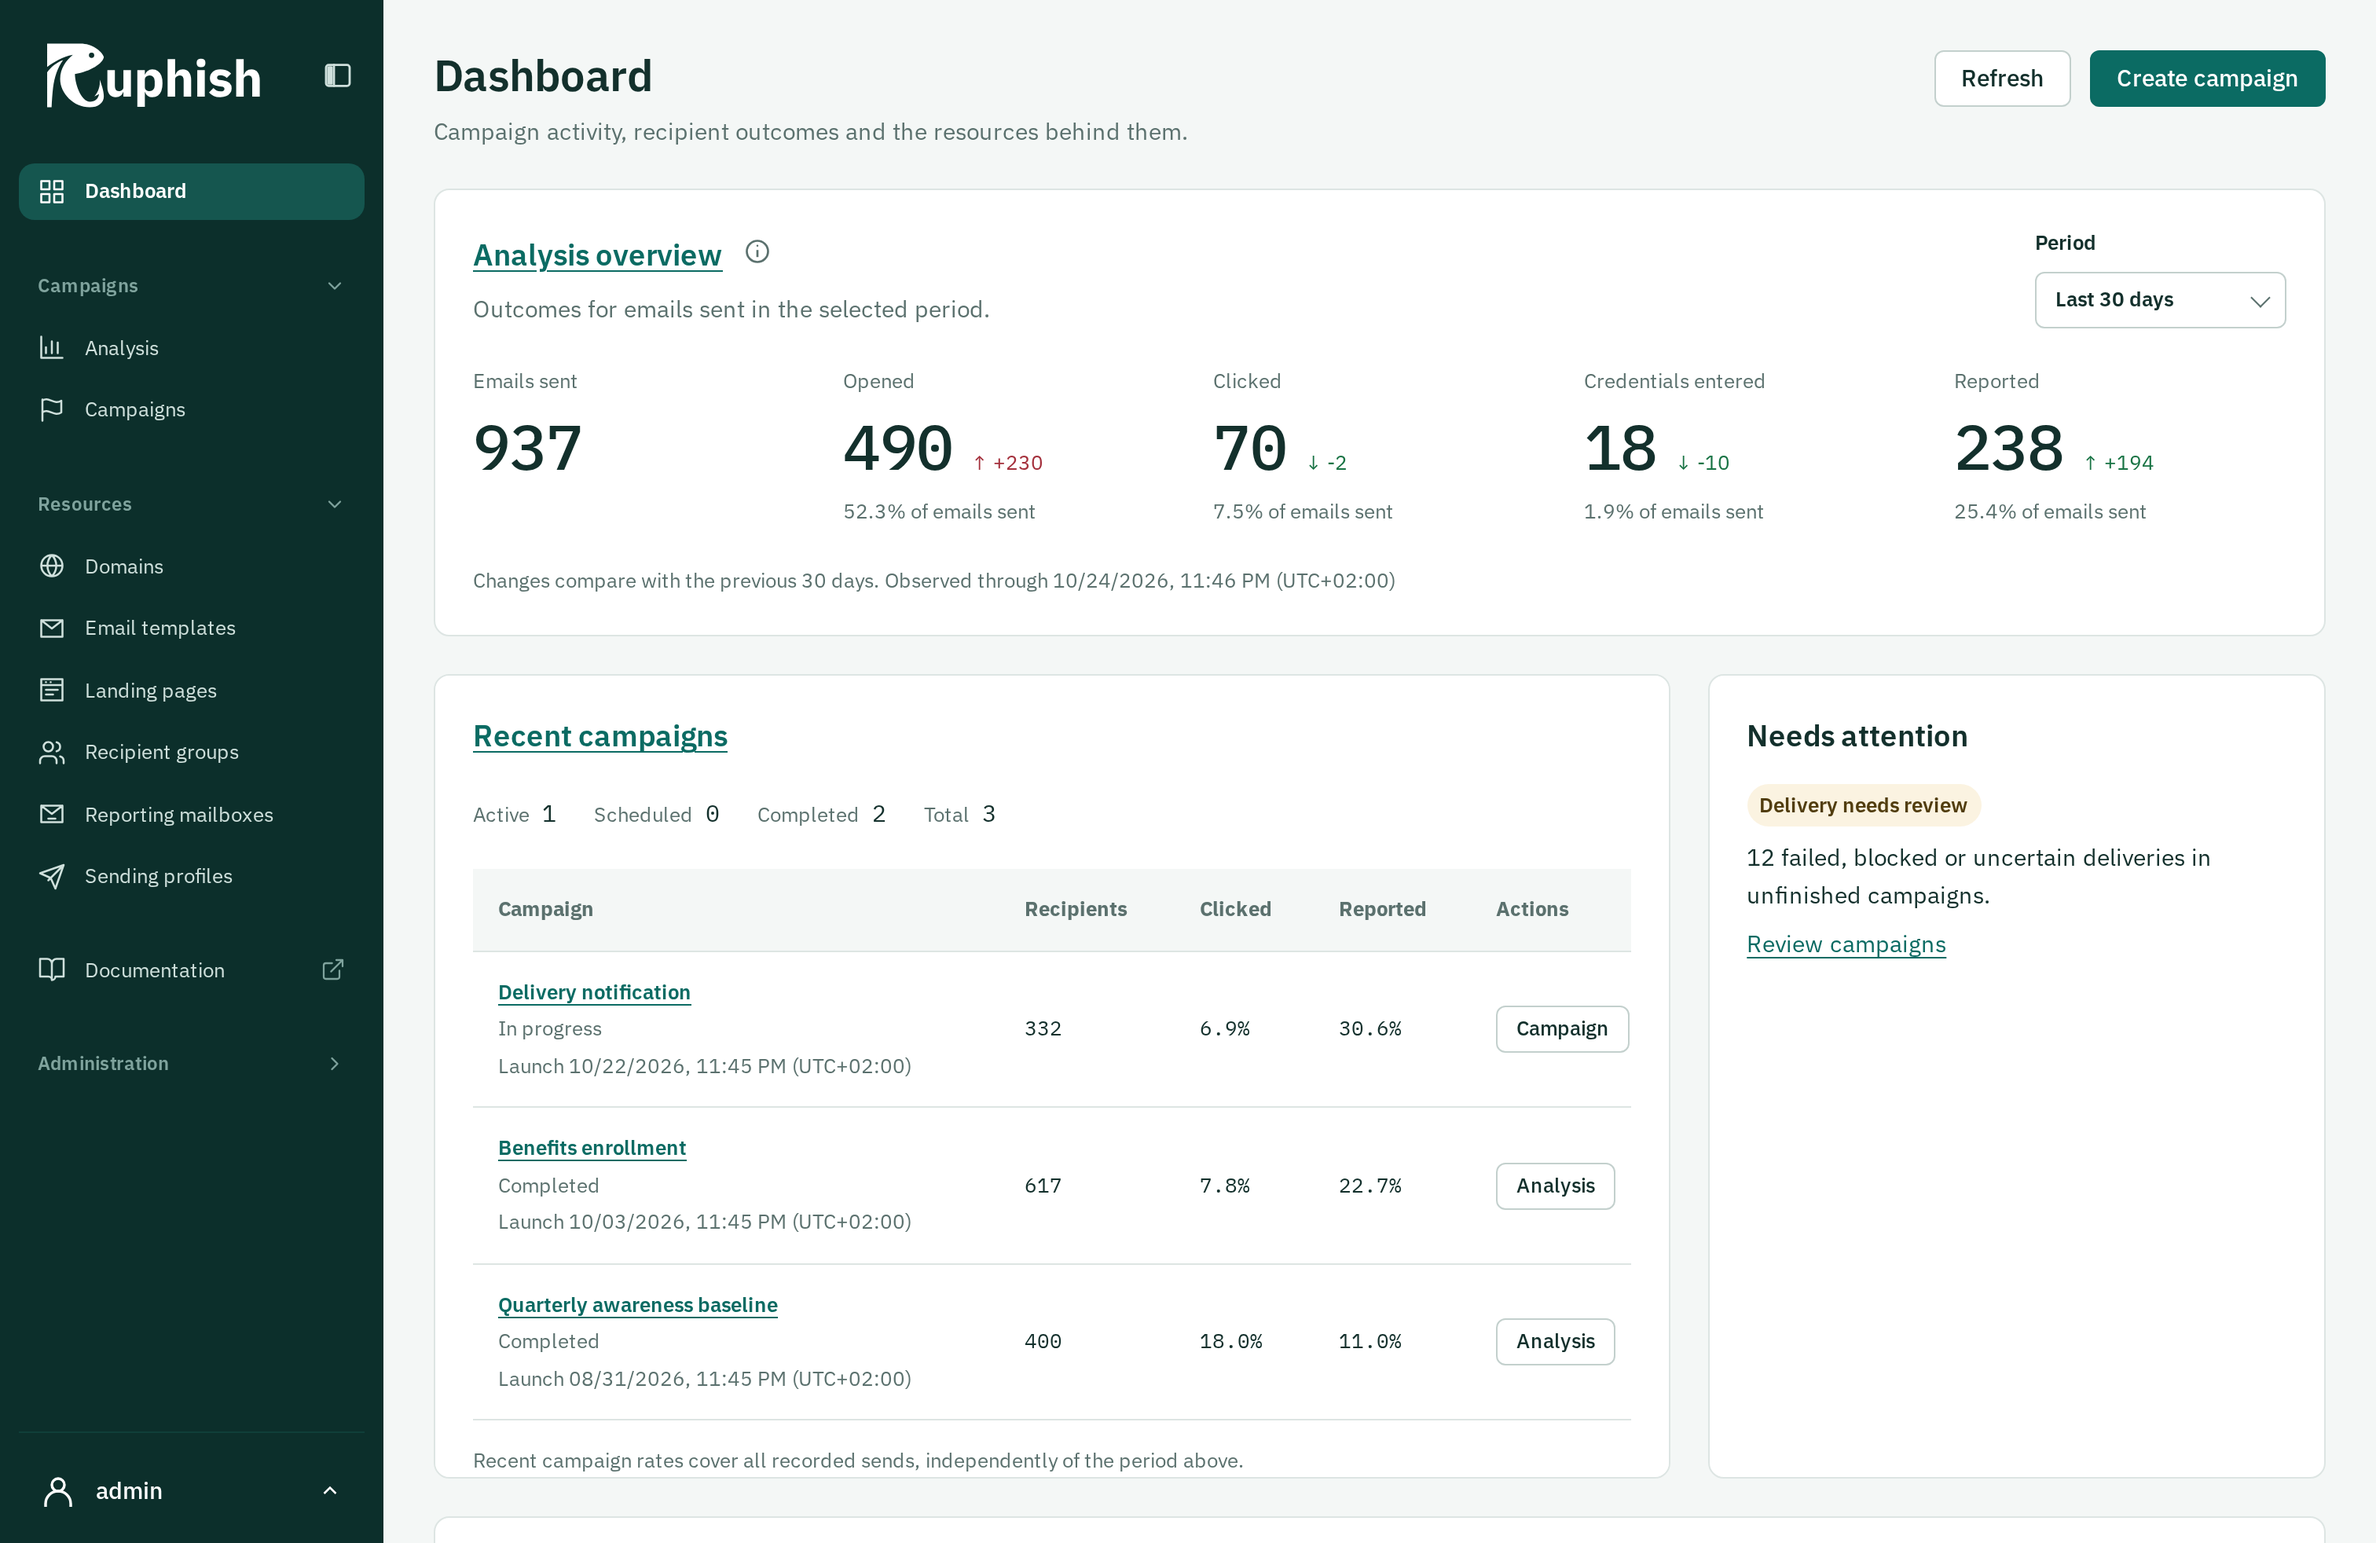
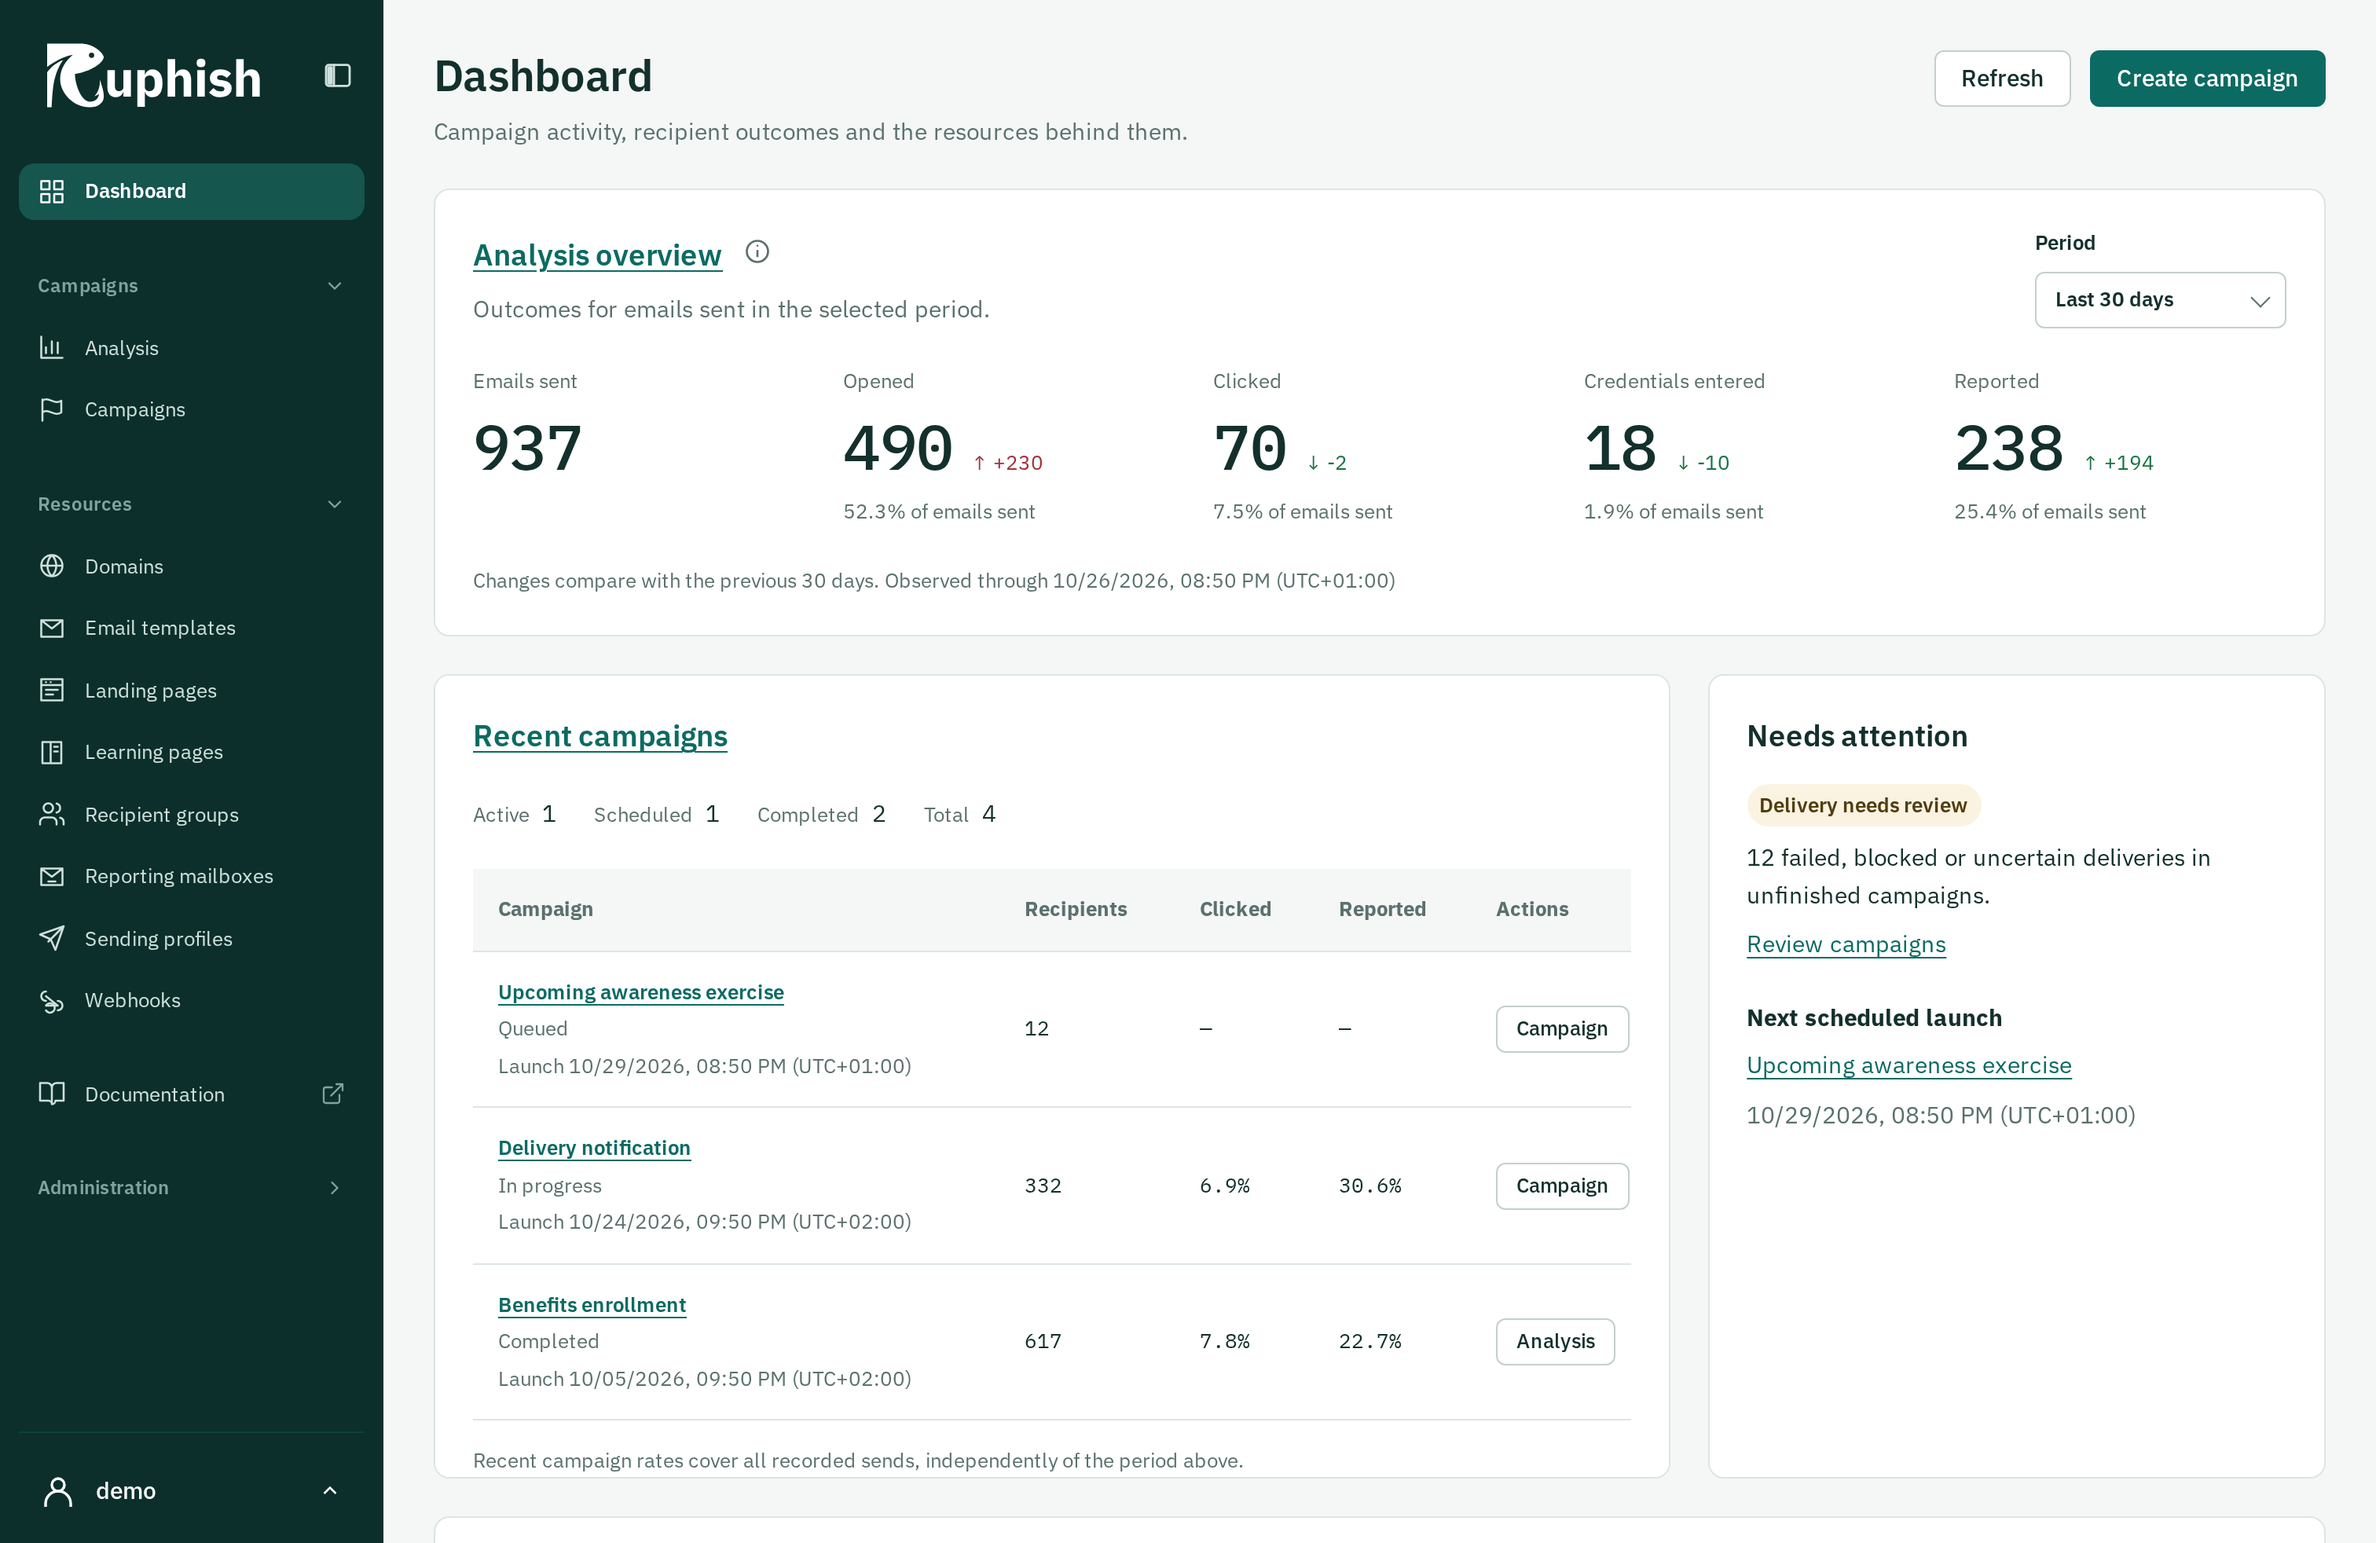
feat(demo): expose the public demo and align recorder features
- Add demo links to the README, website navigation, landing page, and footers.
- Add a mobile navigation toggle, shared external-link icon, and outlined demo buttons.
- Share installation feature flags between the browser demo and recorder seed.
- Include the embedded configuration in Docker builds and avoid recorder WASM compression delays.
- Refresh dashboard images and document their capture date.

diff --git a/website/src/styles/site.css b/website/src/styles/site.css
@@ -14,24 +14,32 @@ p { font-size: 1.0625rem; line-height: 1.7; }
 .shell { width: min(1320px, calc(100% - 64px)); margin-inline: auto; }
 .skip-link { position: absolute; top: -6rem; left: 1rem; padding: 1rem; background: white; z-index: 5; }
 .skip-link:focus { top: 1rem; }
-.site-header { background: var(--deep); color: #fff; border-bottom: 1px solid #28534c; }
+.site-header { position: relative; background: var(--deep); color: #fff; border-bottom: 1px solid #28534c; }
 .header-inner { min-height: 88px; display: flex; align-items: center; justify-content: space-between; gap: 24px; }
 .brand { display: block; flex-shrink: 0; }
 .site-header nav { display: flex; align-items: center; gap: 32px; }
 .site-header nav a { font-size: 0.9375rem; font-weight: 500; color: #eef4f2; text-decoration: none; }
-.site-header a:focus-visible { outline-color: #5cc8bb; }
+.site-header :is(a, button):focus-visible { outline: 2px solid #5cc8bb; outline-offset: 5px; border-radius: 3px; }
 .site-header nav a:is(:hover, [aria-current]) { text-decoration: underline; }
-.source-link { display: inline-flex; align-items: center; gap: 4px; }
-.source-link svg { width: 18px; height: 18px; fill: none; stroke: currentColor; stroke-width: 1.5; }
+.nav-toggle { display: inline-flex; align-items: center; justify-content: center; gap: 10px; min-height: 44px; padding: 8px 12px; border: 1px solid #52746d; border-radius: 6px; color: #eef4f2; background: transparent; font: inherit; cursor: pointer; }
+.nav-toggle:hover { background: #244b43; }
+.nav-toggle svg { width: 22px; height: 22px; fill: none; stroke: currentColor; stroke-width: 1.5; }
+.nav-toggle .close-icon, .nav-toggle[aria-expanded="true"] .menu-icon { display: none; }
+.nav-toggle[aria-expanded="true"] .close-icon { display: block; }
+.site-header [hidden] { display: none; }
+.external-link { display: inline-flex; align-items: center; gap: 4px; }
 .hero { padding-top: clamp(48px, 6vw, 88px); text-align: center; }
 .hero h1 { margin-bottom: 24px; }
 .hero-intro { max-width: 590px; margin: 0 auto 28px; color: var(--muted); font-size: 1.1875rem; }
 .actions { display: flex; justify-content: center; flex-wrap: wrap; gap: 12px; }
+.demo-action { margin-top: 12px; }
 .button { display: inline-flex; align-items: center; justify-content: center; min-height: 48px; padding: 10px 22px; border: 1px solid transparent; border-radius: 6px; font-size: 1rem; font-weight: 500; text-decoration: none; }
 .primary { color: white; background: var(--teal); }
 .primary:hover { background: #0a534d; }
 .secondary { color: var(--ink); border-color: #c3d0cd; background: var(--paper); }
 .secondary:hover { background: #eef4f2; }
+.tertiary { color: var(--teal); border-color: var(--teal); background: var(--paper); }
+.tertiary:hover { background: #e9f5f3; }
 .dashboard-showcase { margin: 48px 0 0; }
 .dashboard-showcase > a { display: block; border: 1px solid #b7ccc6; border-radius: 10px; overflow: hidden; box-shadow: 0 18px 55px -32px #0c2f2b66; }
 .dashboard-showcase img { width: 100%; }
@@ -50,7 +58,7 @@ figcaption { font-size: 0.8125rem; color: var(--muted); padding-top: 16px; }
 .text-link { font-weight: 500; }
 .start-section { padding-block: 80px; display: flex; align-items: flex-start; justify-content: space-between; gap: 32px; }
 .start-section h2 { font-size: 2rem; margin-bottom: 12px; }
-.start-section p { margin-bottom: 0; color: var(--muted); }
+.start-section p { max-width: 640px; margin-bottom: 0; color: var(--muted); }
 .start-section .button { flex-shrink: 0; }
 .about { max-width: 730px; padding-block: 80px 96px; }
 .about-heading h1 { font-size: clamp(2.5rem, 5vw, 4.5rem); }
@@ -70,13 +78,17 @@ figcaption { font-size: 0.8125rem; color: var(--muted); padding-top: 16px; }
   .start-section { padding-block: 56px; gap: 24px; }
   .about { padding-top: 48px; }
 }
+@media (max-width: 700px) {
+  .header-inner { flex-wrap: wrap; }
+  .site-header nav { width: 100%; flex-direction: column; align-items: stretch; gap: 0; padding-bottom: 16px; }
+  .site-header nav a { display: flex; align-items: center; min-height: 48px; padding: 12px 0; }
+  .site-header[data-navigation] nav { position: absolute; top: 100%; left: 0; z-index: 10; padding: 8px 20px 16px; background: var(--deep); border-bottom: 1px solid #52746d; box-shadow: 0 12px 20px -12px #0c2f2b66; }
+}
 @media (max-width: 480px) {
   .shell { width: calc(100% - 32px); }
   .header-inner { min-height: 76px; gap: 12px; }
   .brand img { width: 110px; }
-  .site-header nav { gap: 16px; }
-  .site-header nav a { font-size: 0.875rem; }
-  .source-link svg { display: none; }
+  .site-header[data-navigation] nav { padding-inline: 16px; }
   .hero-intro { font-size: 1.0625rem; }
   .dashboard-showcase { margin-top: 32px; }
 }

diff --git a/website/src/site.ts b/website/src/site.ts
@@ -1,2 +1,3 @@
 export const repository = 'https://github.com/srothgan/ruphish';
+export const demo = 'https://demo.ruphish.com/';
 export const description = 'Prepare phishing simulations, follow delivery, and understand the results. Ruphish brings your security awareness exercises into focus.';

diff --git a/assets/website-demo/README.md b/assets/website-demo/README.md
@@ -22,7 +22,7 @@ Or in a POSIX shell:
 docker run --rm --init --network none --shm-size=1g --mount "type=bind,source=$(pwd)/assets,target=/output" ruphish-dashboard-recorder
 ```
 
-Each run creates fresh temporary state inside the container. The job checks four campaigns, six groups, two reporting mailboxes, twelve delivery failures, and 937 emails sent, waits for the dashboard and fonts to load, then replaces the image at 3024 × 1964 pixels. Image builds do not run dependency audits or CI checks. A failed run preserves the previous image. The administrator listener is internal, mail delivery is disabled, domains and outbound integrations are disabled, and the recording container has no external network. `--rm` removes its database and credentials when it exits. No acceptance-lab data is used.
+Each run creates fresh temporary state inside the container. The job checks four campaigns, six groups, two reporting mailboxes, twelve delivery failures, and 937 emails sent, waits for the dashboard and fonts to load, then replaces the image at 3024 × 1964 pixels. Image builds do not run dependency audits or CI checks. A failed run preserves the previous image. Installation features come from the same `data.json` configuration as the browser demo, so Webhooks and Reporting mailboxes appear in both sidebars. The administrator listener is internal, mail delivery is disabled, individual domains and outbound integrations are inactive, and the recording container has no external network. `--rm` removes its database and credentials when it exits. No acceptance-lab data is used.
 
 Edit sample values in [`data.json`](data.json) and their materialization in [`dataset.mjs`](dataset.mjs), update the expected totals in [`capture.mjs`](capture.mjs) when changing the dataset, then rebuild the image. This is the single dataset shared with the public browser demo; it fully replaces the previous screenshot seed. There is no alternate baseline or upgrade mode. [`seed.mjs`](seed.mjs) inserts it into a fresh database using the current schema, preserves a random recorder password, and disables integrations that could contact external services. The static demo simulates enabled integrations without workers. Campaign dates are relative to recording time. This is screenshot authoring, not a product acceptance test; review the resulting image yourself.
 

diff --git a/docs/contributing/demo.md b/docs/contributing/demo.md
@@ -21,7 +21,7 @@ The only mode flag is the opt-in Cargo feature `demo` on `ruphish-ui`. No flag m
 
 `browser_http.rs` selects either the normal Fetch transport or the generated demo bundle at compile time. Both use the existing request lifecycle, including cancellation, deadlines, response decoding, and downloads. The demo dispatcher returns standard `Response` objects and has no network fallback. No server handlers, persistence rules, or production authentication behavior change.
 
-The installation-capability flags in the session remain separate from the build mode. The synthetic session enables navigation for domains, webhooks, and reporting mailboxes; it does not create workers.
+The installation-capability flags in the session remain separate from the build mode. The browser demo and recorder seed both take these flags from `features` in `assets/website-demo/data.json`, enabling the same navigation. The recorder applies them after inserting the sample resources because its initial migrations ran on an empty database. Individual recorder domains, webhooks, and mailboxes remain inactive; the browser demo simulates their behavior without workers.
 
 Normal production tests retain their assertions and run without `demo`. Dedicated demo tests verify the simulation separately. Do not execute production Fetch tests against the fake transport or reinterpret their expectations as demo assertions.
 

diff --git a/docs/user-guide/results/dashboard.md b/docs/user-guide/results/dashboard.md
@@ -7,9 +7,9 @@ sidebar:
 
 The authenticated home page shows your account's analysis metrics, recent campaigns, resource inventory, and operational attention items. Administrators still see their own campaign data; impersonation follows the selected account.
 
-![Ruphish dashboard with a period selector, five outcome metrics, three recent campaigns, and attention items.](/dashboard.png)
+![Ruphish dashboard with a period selector, five outcome metrics, four recent campaigns, and attention items.](/dashboard.png)
 
-This screenshot uses synthetic demonstration data, captured on 23 October 2026. Its counts illustrate the layout, not campaign effectiveness or results you should expect. The period applies to the analysis overview; recent-campaign rates cover each campaign's recorded sends independently.
+This screenshot uses synthetic demonstration data, captured on 26 October 2026. Its counts illustrate the layout, not campaign effectiveness or results you should expect. The period applies to the analysis overview; recent-campaign rates cover each campaign's recorded sends independently.
 
 Choose **All time**, **Last year**, **Last 30 days**, or **Last 7 days**. Last year is a rolling 365 days, and the default is Last 30 days. The period affects the analysis overview; recent-campaign rates use each campaign's complete recorded history.
 

diff --git a/README.md b/README.md
@@ -10,6 +10,8 @@
 
 Ruphish is a phishing-simulation application with a native Rust server and a Rust/WASM admin interface. Prepare personalized campaigns, deliver them through your SMTP service, and review delivery, participant interactions, and reported messages in one place.
 
+**[Try the demo](https://demo.ruphish.com/)** with username `demo` and password `demodemo`.
+
 Ruphish aims to be a compatible, drop-in replacement for Gophish while adding a new interface, persistent campaign drafts, verified domains, richer analysis, and explicit delivery recovery. Full compatibility cannot be guaranteed for every integration or deployment; review the [documented differences](https://ruphish.com/docs/migration/differences-from-gophish/) before migrating.
 
 ![Ruphish dashboard showing campaign outcomes, recent campaigns, and deliveries needing review.](assets/dashboard.png)
